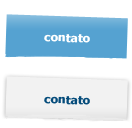
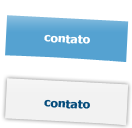
alterações menu home internas falta pagina link  problemas na incorporação do links_index_path

diff --git a/public/stylesheets/template.css b/public/stylesheets/template.css
@@ -211,11 +211,11 @@ body
 		#Menu
 		{
 			position:absolute;
-			width:818px;
+			width:980px;
 			height:140px;
 			margin:auto;
 			top:97px;
-			left:82px;
+			left:0px;
 			text-align:center;
 		}
 
@@ -231,17 +231,17 @@ body
 						float:left;
 						background-image:url(../images/bt_hm_awellnes.png);
 						background-repeat:no-repeat;
-						background-position:0px 0px;
+						background-position:0px -2px;
 						width:153px;
-						height:64px;
-						top:78px;
-						left:0px;
+						height:71px;
+						top:85px;
+						left:-17px;
 					}
 					#Awellnes:hover
 					{
 						background-image:url(../images/bt_hm_awellnes.png);
 						background-repeat:no-repeat;					
-						background-position:0px -65px;
+						background-position:0px -74px;
 						cursor:pointer;
 					}
 
@@ -254,8 +254,8 @@ body
 						background-position:0px 0px;
 						width:133px;
 						height:64px;
-						top:63px;
-						left:-8px;
+						top:70px;
+						left:-17px;
 					}
 					#Noticias:hover
 					{
@@ -274,8 +274,8 @@ body
 						background-position:0px 0px;
 						width:133px;
 						height:64px;
-						top:56px;
-						left:-15px;
+						top:60px;
+						left:-20px;
 					}
 					#Glaboral:hover
 					{
@@ -294,8 +294,8 @@ body
 						background-position:0px 0px;
 						width:133px;
 						height:64px;
-						top:49px;
-						left:-23px;
+						top:50px;
+						left:-25px;
 					}
 					#Dicas:hover
 					{
@@ -303,24 +303,43 @@ body
 						background-repeat:no-repeat;					
 						background-position:0px -66px;
 						cursor:pointer;
-					}			
+					}	
+					#Links
+					{
+						position:relative;
+						float:left;
+						background-image:url(../images/bt_hm_links.png);
+						background-repeat:no-repeat;
+						background-position:0px 0px;
+						width:133px;
+						height:64px;
+						top:47px;
+						left:-28px;
+					}
+					#Links:hover
+					{
+						background-image:url(../images/bt_hm_links.png);
+						background-repeat:no-repeat;					
+						background-position:0px -67px;
+						cursor:pointer;
+					}					
 					#Contato
 					{
 						position:relative;
 						float:left;
 						background-image:url(../images/bt_hm_contato.png);
 						background-repeat:no-repeat;
-						background-position:0px 0px;
+						background-position:0px 2px;
 						width:133px;
 						height:64px;
-						top:44px;
-						left:-30px;
+						top:43px;
+						left:-31px;
 					}
 					#Contato:hover
 					{
 						background-image:url(../images/bt_hm_contato.png);
 						background-repeat:no-repeat;					
-						background-position:0px -63px;
+						background-position:0px -62px;
 						cursor:pointer;
 					}		
 					#Ciafisio
@@ -332,8 +351,8 @@ body
 						background-position:0px 0px;
 						width:133px;
 						height:64px;
-						top:64px;
-						left:15px;
+						top:67px;
+						left:0px;
 					}
 					#Ciafisio:hover
 					{
@@ -486,6 +505,7 @@ body
 			font-weight:normal;
 			color:#0979be;
 		}
+		
 		.Text_internal_box_right	
 		{
 			font-family:Tahoma, Geneva, sans-serif;

diff --git a/public/stylesheets/internal.css b/public/stylesheets/internal.css
@@ -212,7 +212,7 @@ body
 			position:absolute;
 			left:90px;
 			top:186px;
-			width:766px;
+			width:861px;
 			height:35px;
 			margin:auto;
 			*height:34px;
@@ -288,7 +288,6 @@ body
 					*padding-bottom:10px;
 					*height:37px;
 				}
-				
 				.ciafisio a
 				{
 					display:inline-block;
@@ -425,6 +424,13 @@ body
 			color:#0979be;
 			margin-top:10px;
 		}
+		.Title_internal_box_right_medium	
+		{
+			font-family:Tahoma, Geneva, sans-serif;
+			font-size:18px;
+			font-weight:normal;
+			color:#0979be;
+		}		
 		.Text_internal_box_right	
 		{
 			font-family:Tahoma, Geneva, sans-serif;

diff --git a/public/stylesheets/ciafisio.css b/public/stylesheets/ciafisio.css
@@ -131,7 +131,7 @@ body
 			position:absolute;
 			left:90px;
 			top:186px;
-			width:766px;
+			width:861px;
 			height:35px;
 			margin:auto;
 			*height:34px;
@@ -314,6 +314,14 @@ body
 			color:#2b7345;
 			margin-top:10px;
 		}
+		.Title_internal_box_right_medium	
+		{
+			font-family:Tahoma, Geneva, sans-serif;
+			font-size:18px;
+			font-weight:normal;
+			color:#2b7345;
+			margin-top:10px;
+		}		
 		.Text_internal_box_right	
 		{
 			font-family:Tahoma, Geneva, sans-serif;

diff --git a/test/functional/links_controller_test.rb b/test/functional/links_controller_test.rb
@@ -1,0 +1,8 @@
+require 'test_helper'
+
+class LinksControllerTest < ActionController::TestCase
+  # Replace this with your real tests.
+  test "the truth" do
+    assert true
+  end
+end

diff --git a/config/routes.rb b/config/routes.rb
@@ -29,6 +29,8 @@ KwWellnessfit::Application.routes.draw do
  resources :about
  resources :cases
  resources :works
+ resources :links
+ 
  
  root :to => "home#index"
 end

diff --git a/app/controllers/links_controller.rb b/app/controllers/links_controller.rb
@@ -1,0 +1,5 @@
+class LinksController < ApplicationController
+  def index
+  end
+  
+end

diff --git a/test/unit/helpers/links_helper_test.rb b/test/unit/helpers/links_helper_test.rb
@@ -1,0 +1,4 @@
+require 'test_helper'
+
+class LinksHelperTest < ActionView::TestCase
+end

diff --git a/app/helpers/links_helper.rb b/app/helpers/links_helper.rb
@@ -1,0 +1,2 @@
+module LinksHelper
+end
